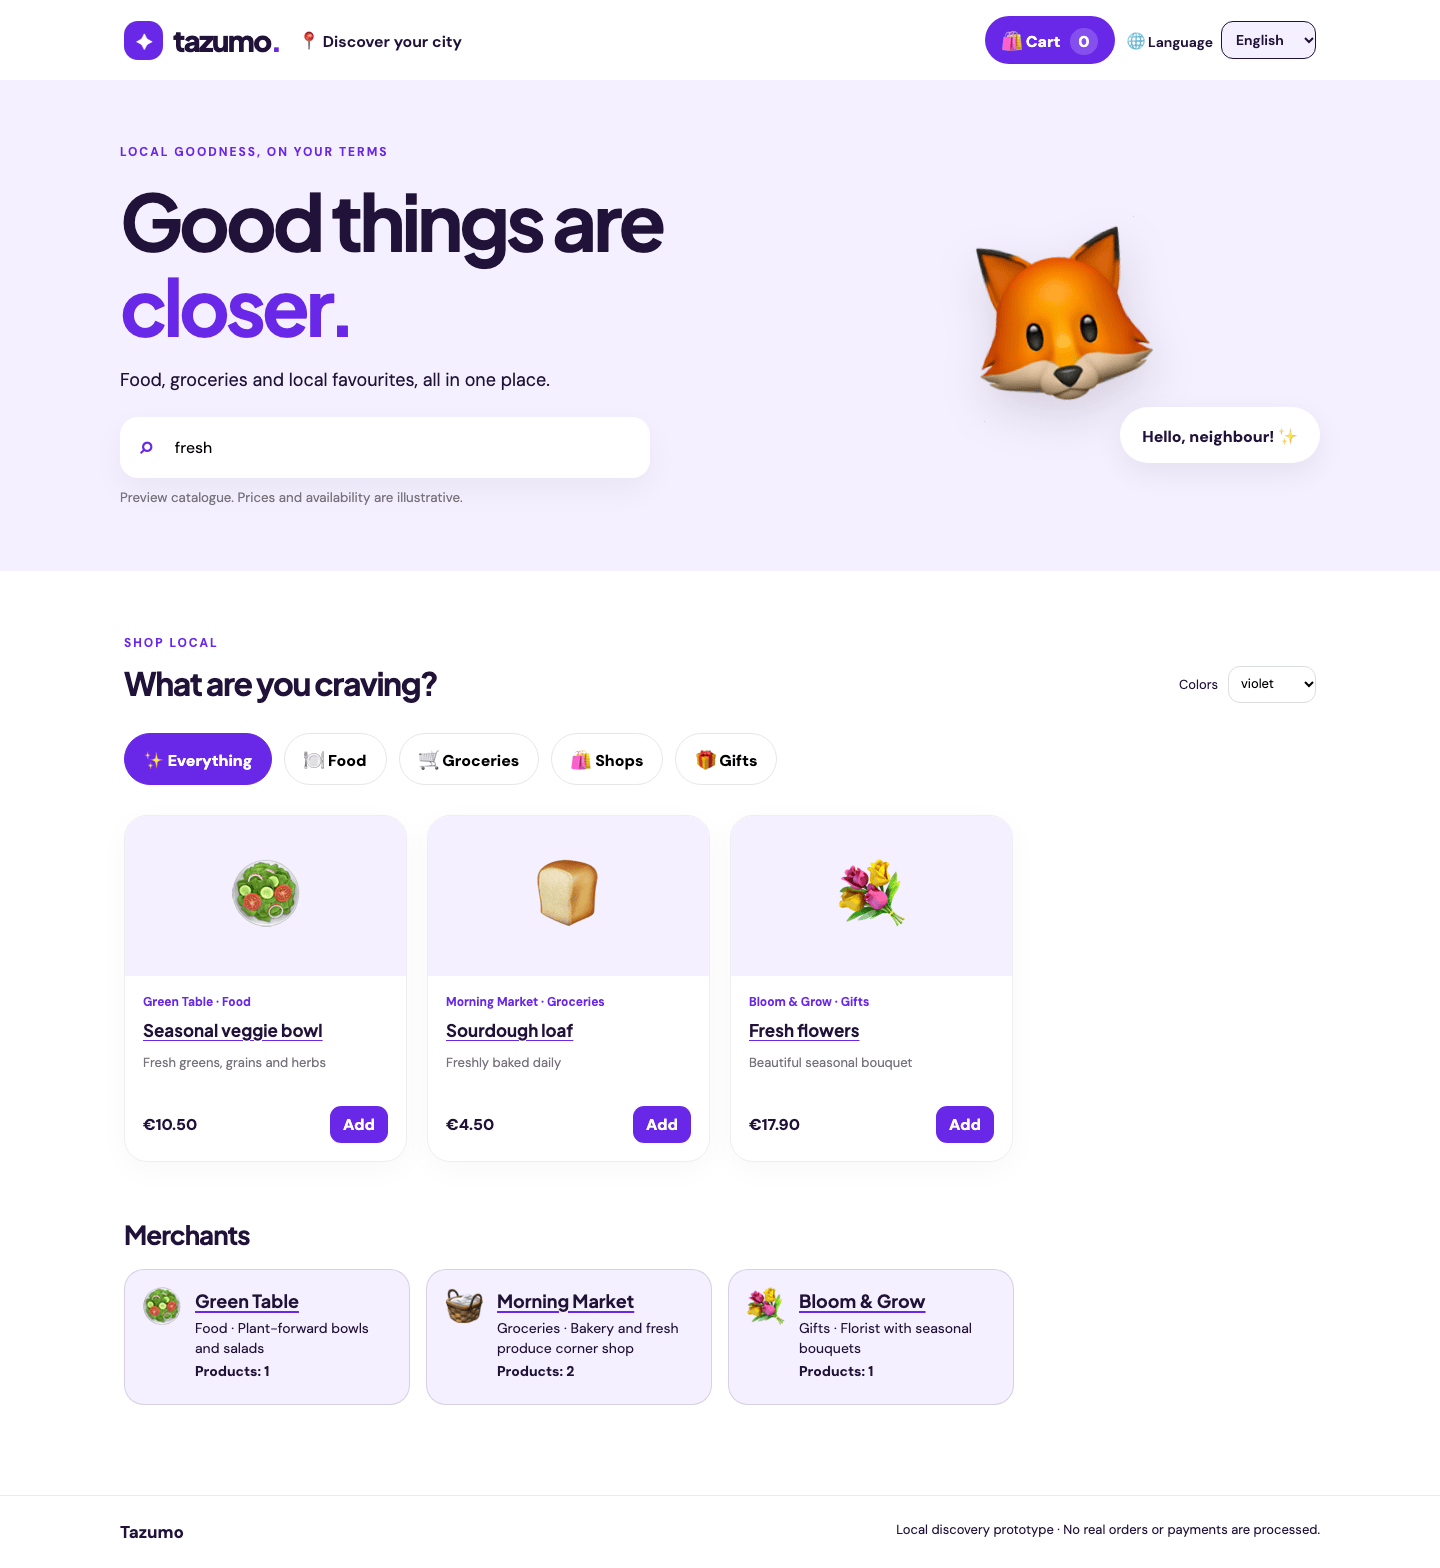
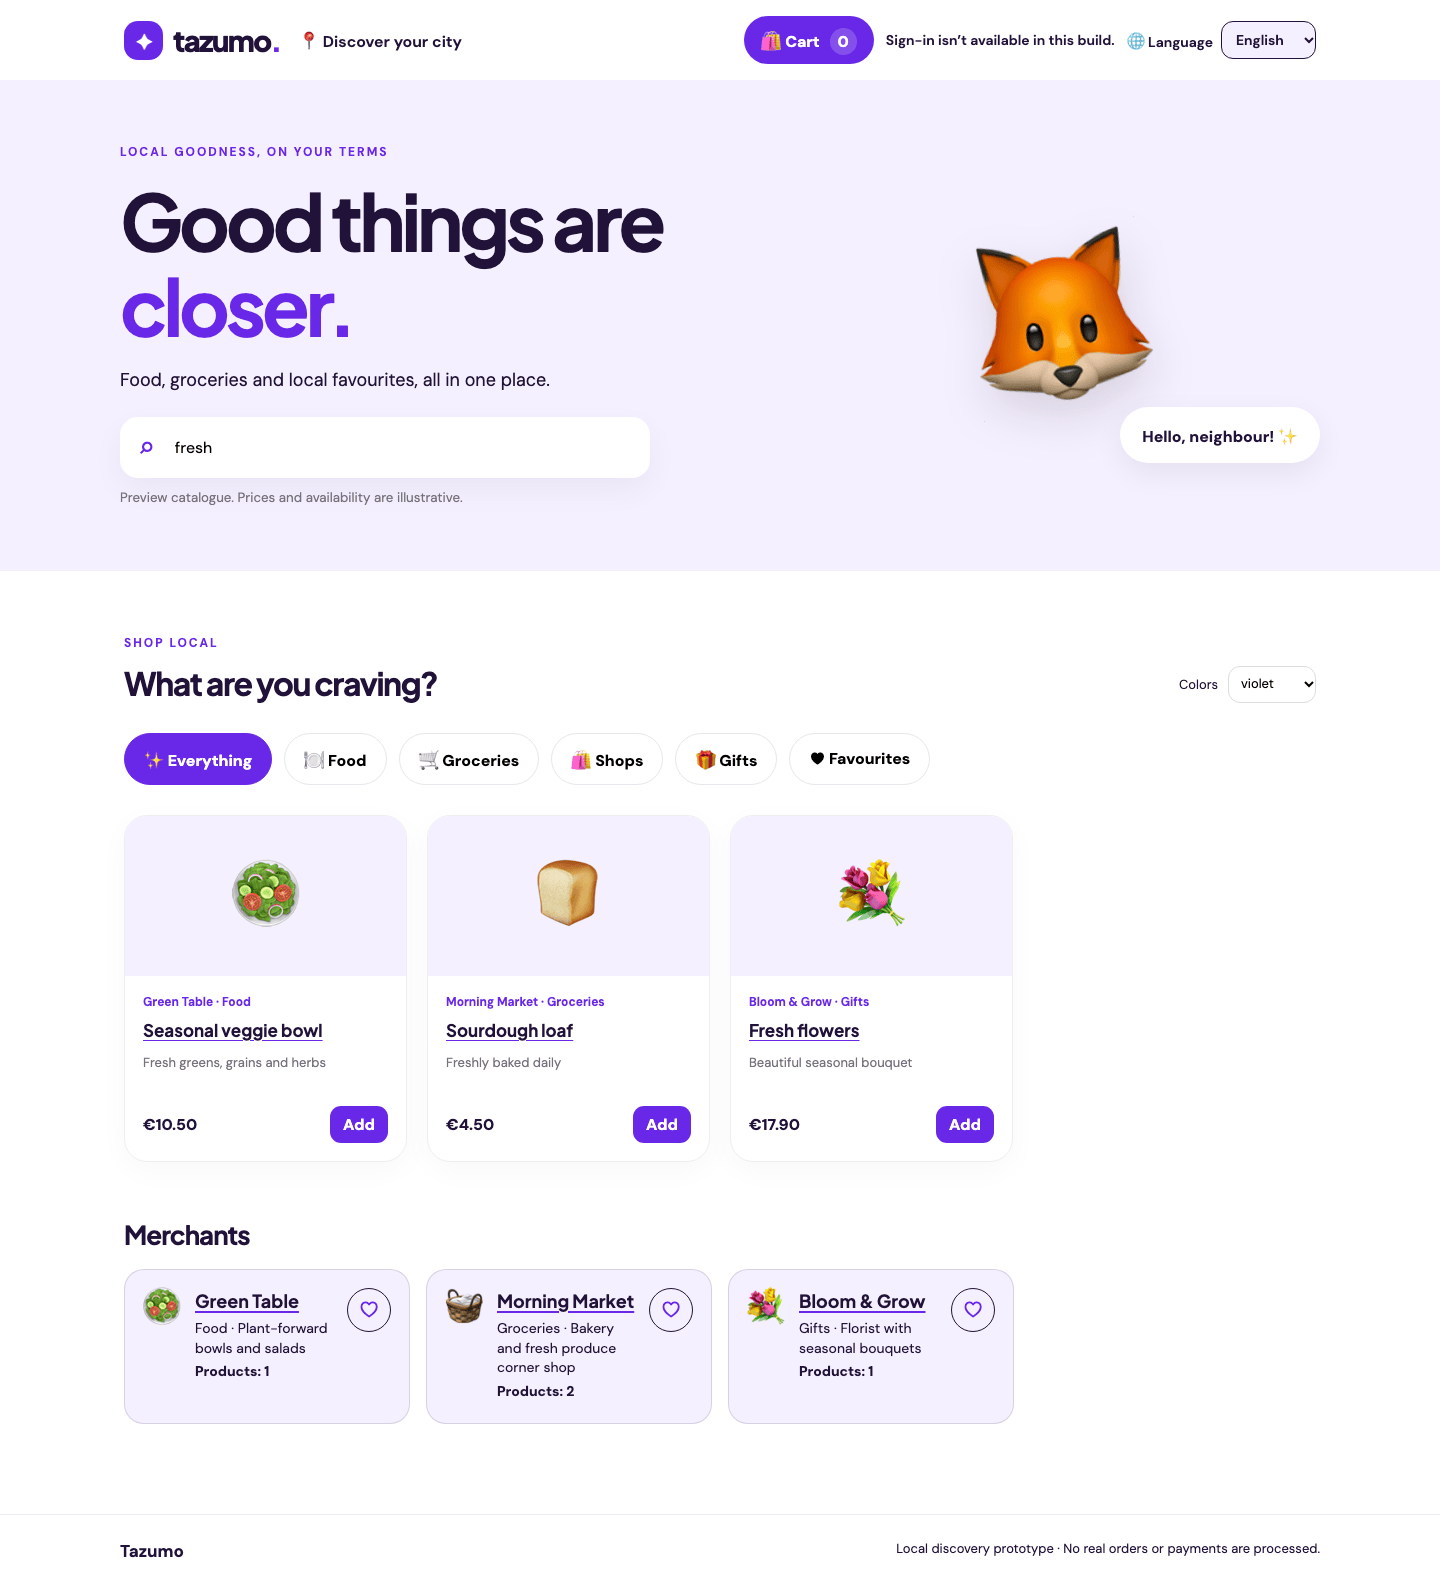
docs(screenshots): web gallery on main with sign-in notice and favourites
Refs #37

diff --git a/README.md b/README.md
@@ -41,7 +41,7 @@ SUT reference imagery captured from the real app. These are not Wopee or Appium 
 
 | | Desktop 1440x900 | Mobile 390x844 |
 | --- | --- | --- |
-| Catalogue | <img src="docs/screenshots/web/desktop-home.png" width="420" alt="Web catalogue on desktop: header with language switcher, hero, category chips, all eight products and the merchant list"> | <img src="docs/screenshots/web/mobile-home.png" width="200" alt="Web catalogue on mobile: header with cart and language switcher, hero and search"> |
+| Catalogue | <img src="docs/screenshots/web/desktop-home.png" width="420" alt="Web catalogue on desktop: header with cart, sign-in notice and language switcher, hero, category chips including Favourites, all eight products and the merchant list"> | <img src="docs/screenshots/web/mobile-home.png" width="200" alt="Web catalogue on mobile: header with cart, sign-in notice and language switcher, hero and search"> |
 | Category: Groceries | <img src="docs/screenshots/web/desktop-category-groceries.png" width="420" alt="Groceries category selected, showing Sourdough loaf and Local apples"> | <img src="docs/screenshots/web/mobile-category-groceries.png" width="200" alt="Groceries category selected on mobile"> |
 | Search: "fresh" | <img src="docs/screenshots/web/desktop-search-fresh.png" width="420" alt="Search for fresh returns three products"> | <img src="docs/screenshots/web/mobile-search-fresh.png" width="200" alt="Search for fresh on mobile"> |
 | Cart with items | <img src="docs/screenshots/web/desktop-cart.png" width="420" alt="Basket dialog with two pizzas, a loaf and flowers, line totals, subtotal 46.20 euro, checkout disabled"> | <img src="docs/screenshots/web/mobile-cart.png" width="200" alt="Basket dialog on mobile"> |
@@ -50,7 +50,7 @@ SUT reference imagery captured from the real app. These are not Wopee or Appium 
 
 | Provenance | Web |
 | --- | --- |
-| SUT commit | [`c8169ee`](https://github.com/wopee-io-demos/tazumo/commit/c8169eeb56c4935489944ec6962aefc7f9233f43), the last change to `apps/web`, `packages` and workspace config at capture time; the PNGs are byte-identical to the capture on `f9616f7`, so nothing visible changed in between |
+| SUT commit | [`be970e2`](https://github.com/wopee-io-demos/tazumo/commit/be970e26633469e94876c5740051fcb1ed082179), the last change to `apps/web`, `packages` and workspace config at capture time |
 | Fixture data | Synthetic catalogue and merchants in `packages/core`; cart = 2x Margherita pizza, 1x Sourdough loaf, 1x Fresh flowers; detail pages for `piazza-local` and `pizza` |
 | Capture command | `bash scripts/capture-web-screenshots.sh` after `pnpm install` and `pnpm exec playwright install chromium`; needs `pngquant` and network access for Google Fonts. It runs `pnpm build`, serves `vite preview`, runs `tests/screenshots/capture.spec.ts` and replaces the gallery only when every capture passes |
 | Browser | Playwright 1.65.1, Chromium 159.0.8154.6, macOS arm64 host |
